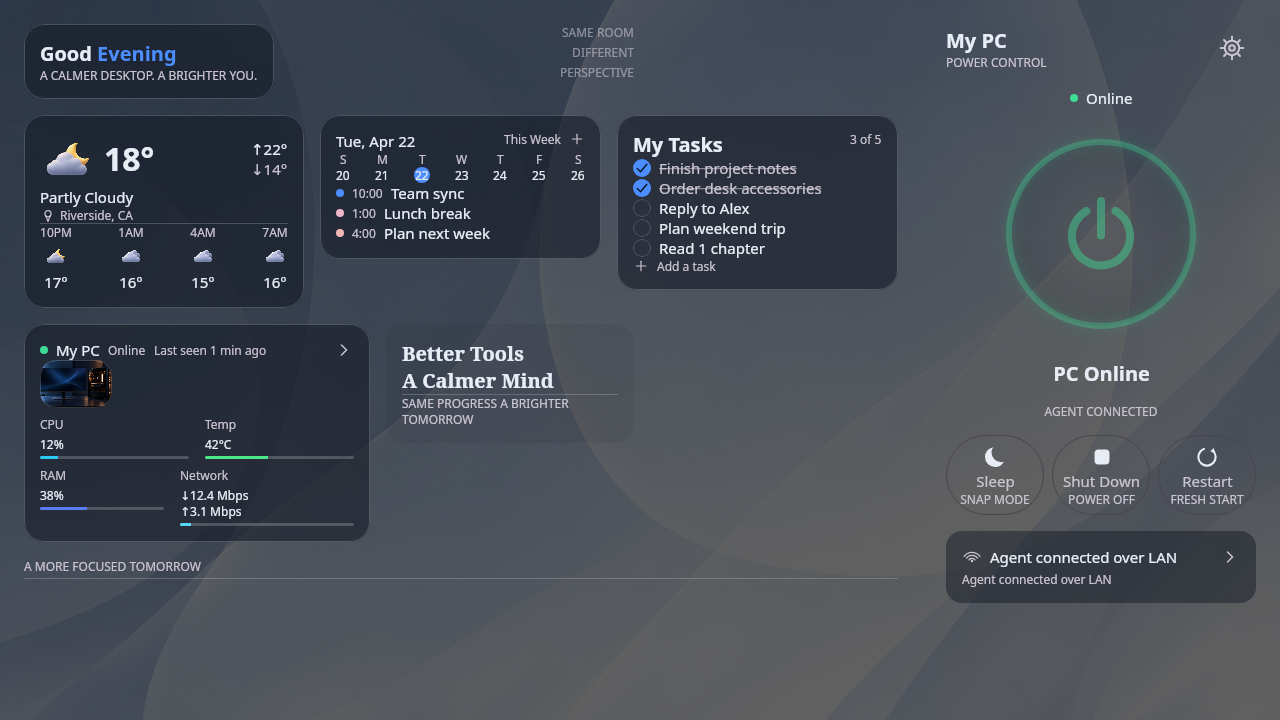
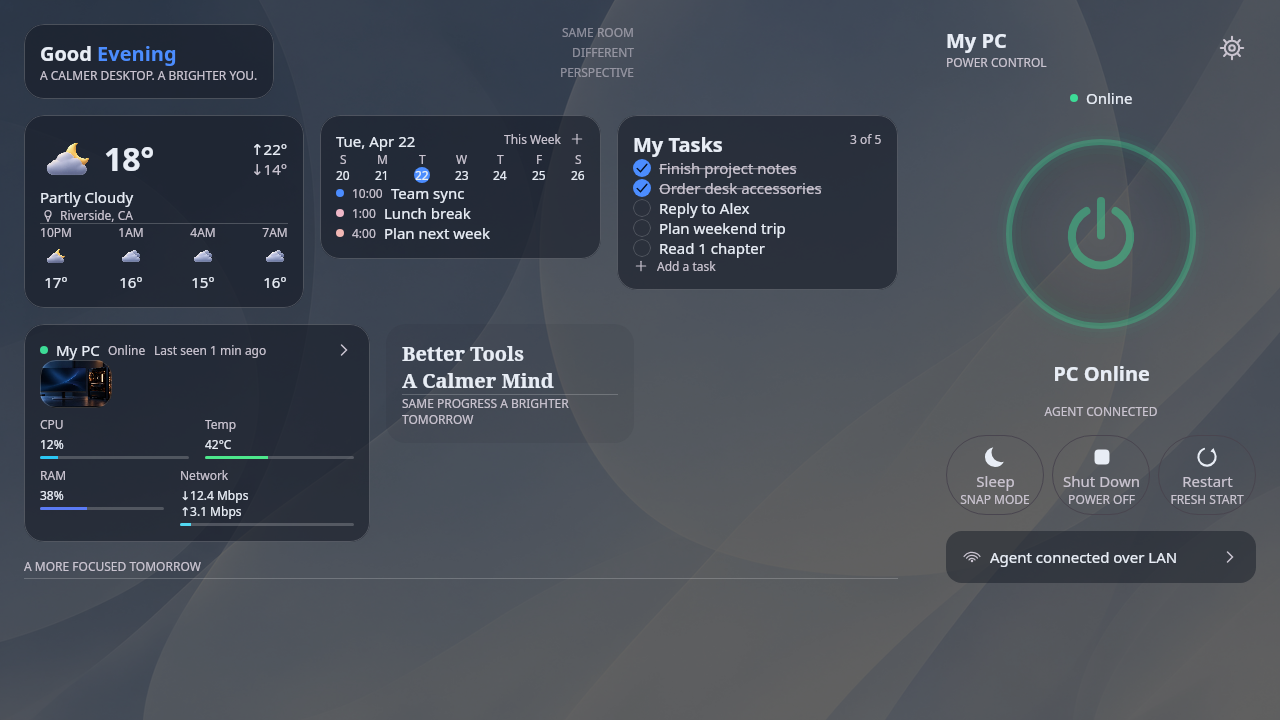
fix: stop rendering the duplicated connection bar status line
- 新增 PowerRailModel.showsStatusLine：能力描述与通道文案相同时不再渲染第二行（规格 A5 的通道条是一行）

- PowerRail 的通道条与 PowerRailCompact 的底栏都按该属性条件渲染；OFFLINE/WAKING 等两行内容不同的状态照旧保留

- PowerRailUiTest 新增 4 条用例（3 条 RED 后转绿 + 1 条 OFFLINE 回归守卫），tag 清单随之调整

- 重出 13 张含常驻栏的截图；standby/personalization 的 MD5 未变，佐证改动只落在栏上

Changed region(s): [[0.7188, 0.7944, 1.0, 0.8556]]

diff --git a/mobile/composeApp/src/desktopTest/kotlin/com/xukunz/wakeupmywall/ui/powerrail/PowerRailUiTest.kt b/mobile/composeApp/src/desktopTest/kotlin/com/xukunz/wakeupmywall/ui/powerrail/PowerRailUiTest.kt
@@ -74,6 +74,41 @@ class PowerRailUiTest {
         onNodeWithTag("powerrail:connection").assertTextEquals("Agent connected over LAN")
     }
 
+    /**
+     * 规格 A5 的连接条是一行"图标 + 通道文案 + 箭头"。第二行是能力描述，只在它与通道文案
+     * **不同**时才有信息量；ONLINE 的 `statusText` 与 `connectionLabel` 逐字相同，
+     * 渲染出来就是同一句话在一张卡里出现两次（2026-09-20 从 `monitor.png` 右栏发现）。
+     */
+    @Test
+    fun `online connection bar drops the repeated status line`() = runComposeUiTest {
+        setContent { WakeUpMyWallTheme { PowerRail(rail(PcState.ONLINE), {}, {}, {}, {}, {}) } }
+
+        onNodeWithTag("powerrail:status").assertDoesNotExist()
+    }
+
+    @Test
+    fun `wol ready connection bar drops the repeated status line`() = runComposeUiTest {
+        setContent { WakeUpMyWallTheme { PowerRail(rail(PcState.WOL_READY), {}, {}, {}, {}, {}) } }
+
+        onNodeWithTag("powerrail:status").assertDoesNotExist()
+    }
+
+    @Test
+    fun `offline connection bar keeps the status line that adds information`() = runComposeUiTest {
+        setContent { WakeUpMyWallTheme { PowerRail(rail(PcState.OFFLINE), {}, {}, {}, {}, {}) } }
+
+        onNodeWithTag("powerrail:connection").assertTextEquals("Wake-on-LAN Ready")
+        onNodeWithTag("powerrail:status").assertTextEquals("Wake-on-LAN requires MAC")
+    }
+
+    @Test
+    fun `compact rail drops the repeated status line too`() = runComposeUiTest {
+        setContent { WakeUpMyWallTheme { PowerRailCompact(rail(PcState.ONLINE), {}, {}, {}, {}, {}) } }
+
+        onNodeWithTag("powerrail:connection").assertTextEquals("Agent connected over LAN")
+        onNodeWithTag("powerrail:status").assertDoesNotExist()
+    }
+
     @Test
     fun `every rail element is tagged`() = runComposeUiTest {
         setContent { WakeUpMyWallTheme { PowerRail(rail(PcState.WOL_READY), {}, {}, {}, {}, {}) } }
@@ -82,7 +117,8 @@ class PowerRailUiTest {
             "powerrail", "powerrail:name", "powerrail:subtitle", "powerrail:state",
             "powerrail:primary", "powerrail:primary-label", "powerrail:primary-caption",
             "powerrail:sleep", "powerrail:shutdown", "powerrail:restart",
-            "powerrail:connection", "powerrail:status", "powerrail:settings",
+            // `powerrail:status` 不在这个状态里出现：它的文案与通道文案相同，按 A5 不渲染（见上面三条）。
+            "powerrail:connection", "powerrail:settings",
         ).forEach { tag -> onNodeWithTag(tag).assertExists() }
     }
 }

diff --git a/mobile/composeApp/src/commonMain/kotlin/com/xukunz/wakeupmywall/ui/powerrail/PowerRailState.kt b/mobile/composeApp/src/commonMain/kotlin/com/xukunz/wakeupmywall/ui/powerrail/PowerRailState.kt
@@ -27,6 +27,17 @@ data class PowerRailModel(
 /** Agent 可达（= 次级电源动作可用）。状态点用它决定是否用"在线色"。 */
 val PowerRailModel.agentReachable: Boolean get() = canSleep
 
+/**
+ * 通道条 / 底栏的第二行（能力描述 [PowerRailModel.statusLine]）只在它与通道文案
+ * [PowerRailModel.connectionLabel] **不同**时才渲染。
+ *
+ * 规格 A5 的通道条是"图标 + 通道文案 + 箭头"一行；加了第二行以后，ONLINE 的
+ * `statusText`（`Agent connected over LAN`）与 WOL_READY 的（`Wake-on-LAN Ready`）恰好与
+ * 通道文案逐字相同，同一张卡里同一句话就出现两次。其余状态（OFFLINE 的
+ * `Wake-on-LAN requires MAC`、WAKING 的 `Waiting for Agent`）两行内容不同，是有用的信息，照旧保留。
+ */
+val PowerRailModel.showsStatusLine: Boolean get() = statusLine != connectionLabel
+
 fun powerRailModel(state: PcState, device: PcDevice?): PowerRailModel {
     val capabilities = state.capabilities(device)
     return PowerRailModel(

diff --git a/mobile/composeApp/src/commonMain/kotlin/com/xukunz/wakeupmywall/ui/powerrail/PowerRail.kt b/mobile/composeApp/src/commonMain/kotlin/com/xukunz/wakeupmywall/ui/powerrail/PowerRail.kt
@@ -178,12 +178,15 @@ fun PowerRail(
                     size = AppSizes.iconMedium,
                 )
             }
-            Text(
-                text = model.statusLine,
-                style = MaterialTheme.typography.labelSmall,
-                color = MaterialTheme.colorScheme.onSurfaceVariant,
-                modifier = Modifier.testTag("powerrail:status"),
-            )
+            // 与通道文案相同时不渲染：规格 A5 的通道条只有一行（见 PowerRailModel.showsStatusLine）。
+            if (model.showsStatusLine) {
+                Text(
+                    text = model.statusLine,
+                    style = MaterialTheme.typography.labelSmall,
+                    color = MaterialTheme.colorScheme.onSurfaceVariant,
+                    modifier = Modifier.testTag("powerrail:status"),
+                )
+            }
         }
 
         // A6 引用卡（可开关的装饰层，默认关闭）

diff --git a/mobile/composeApp/src/commonMain/kotlin/com/xukunz/wakeupmywall/ui/powerrail/PowerRailCompact.kt b/mobile/composeApp/src/commonMain/kotlin/com/xukunz/wakeupmywall/ui/powerrail/PowerRailCompact.kt
@@ -148,12 +148,15 @@ fun PowerRailCompact(
             CompactAction(AppIconKind.Restart, "Restart", "FRESH START", model.canRestart, onRestart, "powerrail:restart", Modifier.weight(1f))
         }
 
-        Text(
-            text = model.statusLine,
-            style = MaterialTheme.typography.labelSmall,
-            color = MaterialTheme.colorScheme.onSurfaceVariant,
-            modifier = Modifier.testTag("powerrail:status"),
-        )
+        // 顶行已经写着通道文案，相同时再排一行就是同一句话重复（见 PowerRailModel.showsStatusLine）。
+        if (model.showsStatusLine) {
+            Text(
+                text = model.statusLine,
+                style = MaterialTheme.typography.labelSmall,
+                color = MaterialTheme.colorScheme.onSurfaceVariant,
+                modifier = Modifier.testTag("powerrail:status"),
+            )
+        }
     }
 }
 

diff --git a/docs/plans/2026-09-20-responsive-and-concept-alignment.md b/docs/plans/2026-09-20-responsive-and-concept-alignment.md
@@ -139,7 +139,7 @@ StandBy 的 Android 帧依然缺。恢复路径见 [version-matrix.md](version-m
 Device Setup 段，屏幕内容与 `settings.png` 重合。留着等于重演 `android-standby.png` 那次的错误
 （一张没人维护的图被当成当轮证据），故删除；git 历史里仍可取回。
 
-### 8.4 本轮新发现（待裁决，本批未改）
+### 8.4 本轮新发现：连接条两行同文案（**已裁决 → §9**）
 
 **连接条有两行同文案**：规格 A5 的连接条是"图标 + 通道文案 + 箭头"一行；实现额外加了
 第二行 `statusLine = PcCapabilities.statusText`，而 ONLINE 的 `statusText` 恰好也是
@@ -150,6 +150,7 @@ Device Setup 段，屏幕内容与 `settings.png` 重合。留着等于重演 `a
 两个方向都只改渲染，不改模型：(a) 第二行与第一行相同时不渲染（贴合概念图的单行）；
 (b) 保留双行，但把第二行换成补充信息（如 `Last seen 1 min ago`）。
 这会动到 `PowerRailUiTest` 里"每个元素都有 testTag"那条断言（`powerrail:status`），故留给你裁决。
+**用户 2026-09-20 选 (a)**，落地记录见 §9。
 
 ### 8.5 本批验证
 
@@ -160,3 +161,36 @@ env JAVA_HOME=<jdk-25> ./gradlew :composeApp:testDebugUnitTest :composeApp:deskt
 
 截图由同一次 `desktopTest` 产出并断言尺寸；其余 13 张帧的 MD5 与本批重跑完全一致
 （渲染可复现），只有两张新帧是新文件。
+
+## 9. 第四批：连接条去重（2026-09-20，按裁决 a）
+
+**决定：** 第二行与通道文案相同时**不渲染**（贴合概念图/规格 A5 的单行通道条），
+内容不同时照旧保留——OFFLINE 的 `Wake-on-LAN requires MAC`、WAKING 的 `Waiting for Agent`
+都是有效信息，不能一起砍掉。
+
+**实现（生产代码两处条件渲染 + 一处派生属性）：**
+
+| 位置 | 改动 |
+| --- | --- |
+| `ui/powerrail/PowerRailState.kt` | 新增 `PowerRailModel.showsStatusLine = statusLine != connectionLabel`，把"是否重复"的判断收在一处 |
+| `ui/powerrail/PowerRail.kt` | 通道条第二行按 `showsStatusLine` 条件渲染 |
+| `ui/powerrail/PowerRailCompact.kt` | 底栏最底行按同一属性条件渲染（顶行已经就是通道文案） |
+
+判断没有散落在两个 Composable 里：模型层给属性、视图层只读它，和 `agentReachable` 的做法一致。
+
+**TDD 记录（先失败后实现）：**
+
+- RED：`PowerRailUiTest` 新增 3 条"不再重复"用例，跑 `--tests "*PowerRailUiTest*"` 得到
+  `10 tests completed, 3 failed`，失败原因是 `powerrail:status` 节点**仍然存在**（不是编译错误、不是拼写错误）；
+- GREEN：实现上面三处后同一套件全绿；第 4 条新用例（OFFLINE 保留第二行）是既有行为的回归守卫，
+  它一开始就是绿的，写在这里是为了挡住"一刀切砍掉第二行"的过度修复；
+- "每个元素都有 testTag"那条断言的清单里去掉 `powerrail:status`（该状态下它按 A5 不渲染），
+  改由 OFFLINE 用例覆盖该 tag。
+
+**证据（13 张含栏的帧已重出）：** `dashboard.png` / `monitor.png` / `settings.png` /
+`dashboard-compact.png` / `dashboard-minimal.png` / `phone-*.png` / `fold-*.png` 全部更新；
+`monitor.png` 右栏通道条现在是单行 `Agent connected over LAN`、`phone-monitor.png` 底栏不再重复，
+与概念图 `cb576a75-….png` 的通道条一致。不含常驻栏的 `standby.png` / `personalization.png` 未变（MD5 相同）。
+
+**验证：** `./gradlew :composeApp:testDebugUnitTest :composeApp:desktopTest` →
+`testDebugUnitTest 101 / desktopTest 190`（+4），0 failures。

diff --git a/docs/plans/screenshots/README.md b/docs/plans/screenshots/README.md
@@ -39,6 +39,11 @@ JAVA_HOME=<jdk25> ./gradlew :composeApp:desktopTest --tests "*AppScreenshotTest*
 
 尺寸由 `AppScreenshotTest` 里的 `FrameWidth`/`FrameHeight` 显式指定，并用断言守住：产出的 PNG 尺寸与声明的渲染条件不一致时测试直接失败。
 
+> 2026-09-20 第四批（连接条去重，见[对齐文档](../2026-09-20-responsive-and-concept-alignment.md) §9）重出了
+> 13 张**含常驻栏**的帧：`dashboard.png` / `monitor.png` / `settings.png` / `dashboard-compact.png` /
+> `dashboard-minimal.png` / `phone-*.png` / `fold-*.png`。不含常驻栏的 `standby.png` 与 `personalization.png`
+> 的 MD5 与上一批完全相同——这也是一道旁证：改动只落在栏上，没有波及其他屏幕。
+
 > 这条守卫是补上的：2026-09-19 那批截图用的是默认的 1024×768 测试窗口，`Modifier.size(1280.dp, 720.dp)` 被入参约束压回 1024 宽，于是"按 1280dp 设计"的布局实际是在 737dp 主区里渲染的，而复核文档当时写的渲染条件是 1280×720 —— 图和文档对不上。2026-09-20 已按 1280×720 重出并加断言。
 
 ## 与概念图的对应关系
